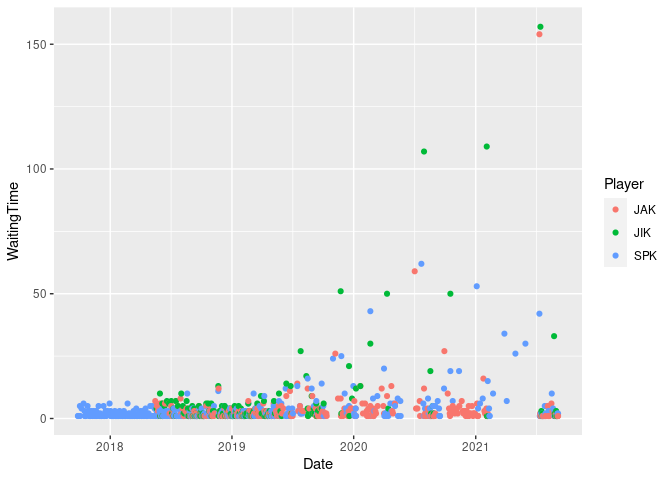
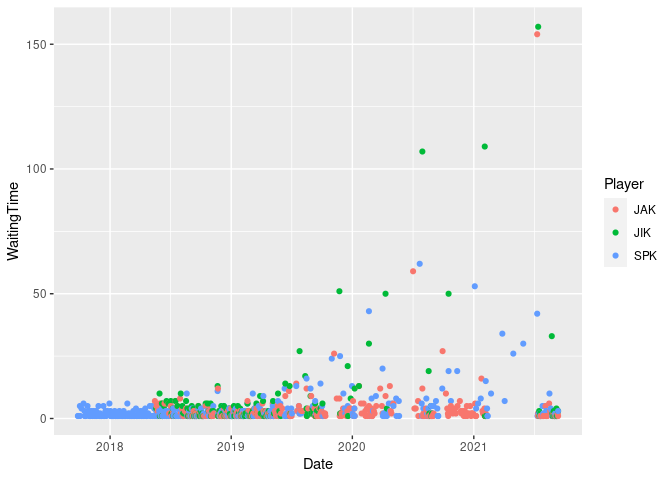
Added new data values

diff --git a/analysis/nyt_mini_crossword.md b/analysis/nyt_mini_crossword.md
@@ -1,7 +1,7 @@
 ---
 title: "New York Time Mini Crossword"
 author: "Stephen Kaluzny"
-date: "05 September, 2021"
+date: "12 September, 2021"
 output:
   html_document:
     keep_md: true
@@ -172,7 +172,7 @@ d %>%
 
 ## Summary Statistics
 
-Current data set has 1113 observations.
+Current data set has 1128 observations.
 
 
 ```r
@@ -187,10 +187,10 @@ d %>% group_by(Player) %>%
 ##   <chr>  <dbl>  <dbl> <dbl> <dbl> <int>
 ## 1 SKK     51       47    21    89     4
 ## 2 AKK     55       55    55    55     1
-## 3 JIK     80.6     62    13   264   207
-## 4 JAK    104.      87    27   454   392
+## 3 JIK     79.9     62    13   264   211
+## 4 JAK    103.      87    27   454   398
 ## 5 BBK    117.     102    42   350    55
-## 6 SPK     NA       NA    NA    NA   454
+## 6 SPK     NA       NA    NA    NA   459
 ```
 
 ## Subset the Data
@@ -205,7 +205,7 @@ d <- d %>%
   filter(Player %in% c("SPK", "JAK", "JIK"))
 ```
 
-Now have 1053 observations.
+Now have 1068 observations.
 
 ## Plots
 
@@ -353,7 +353,7 @@ sessionInfo()
 ##  [9] lubridate_1.7.10 jsonlite_1.7.2   evaluate_0.14    lifecycle_1.0.0 
 ## [13] tibble_3.1.4     gtable_0.3.0     pkgconfig_2.0.3  rlang_0.4.11    
 ## [17] cli_3.0.1        DBI_1.1.1        yaml_2.2.1       xfun_0.25       
-## [21] fastmap_1.1.0    withr_2.4.2      stringr_1.4.0    knitr_1.33      
+## [21] fastmap_1.1.0    withr_2.4.2      stringr_1.4.0    knitr_1.34      
 ## [25] hms_1.1.0        generics_0.1.0   vctrs_0.3.8      sass_0.4.0      
 ## [29] rprojroot_2.0.2  grid_4.1.1       tidyselect_1.1.1 here_1.0.1      
 ## [33] glue_1.4.2       R6_2.5.1         fansi_0.5.0      rmarkdown_2.10  
